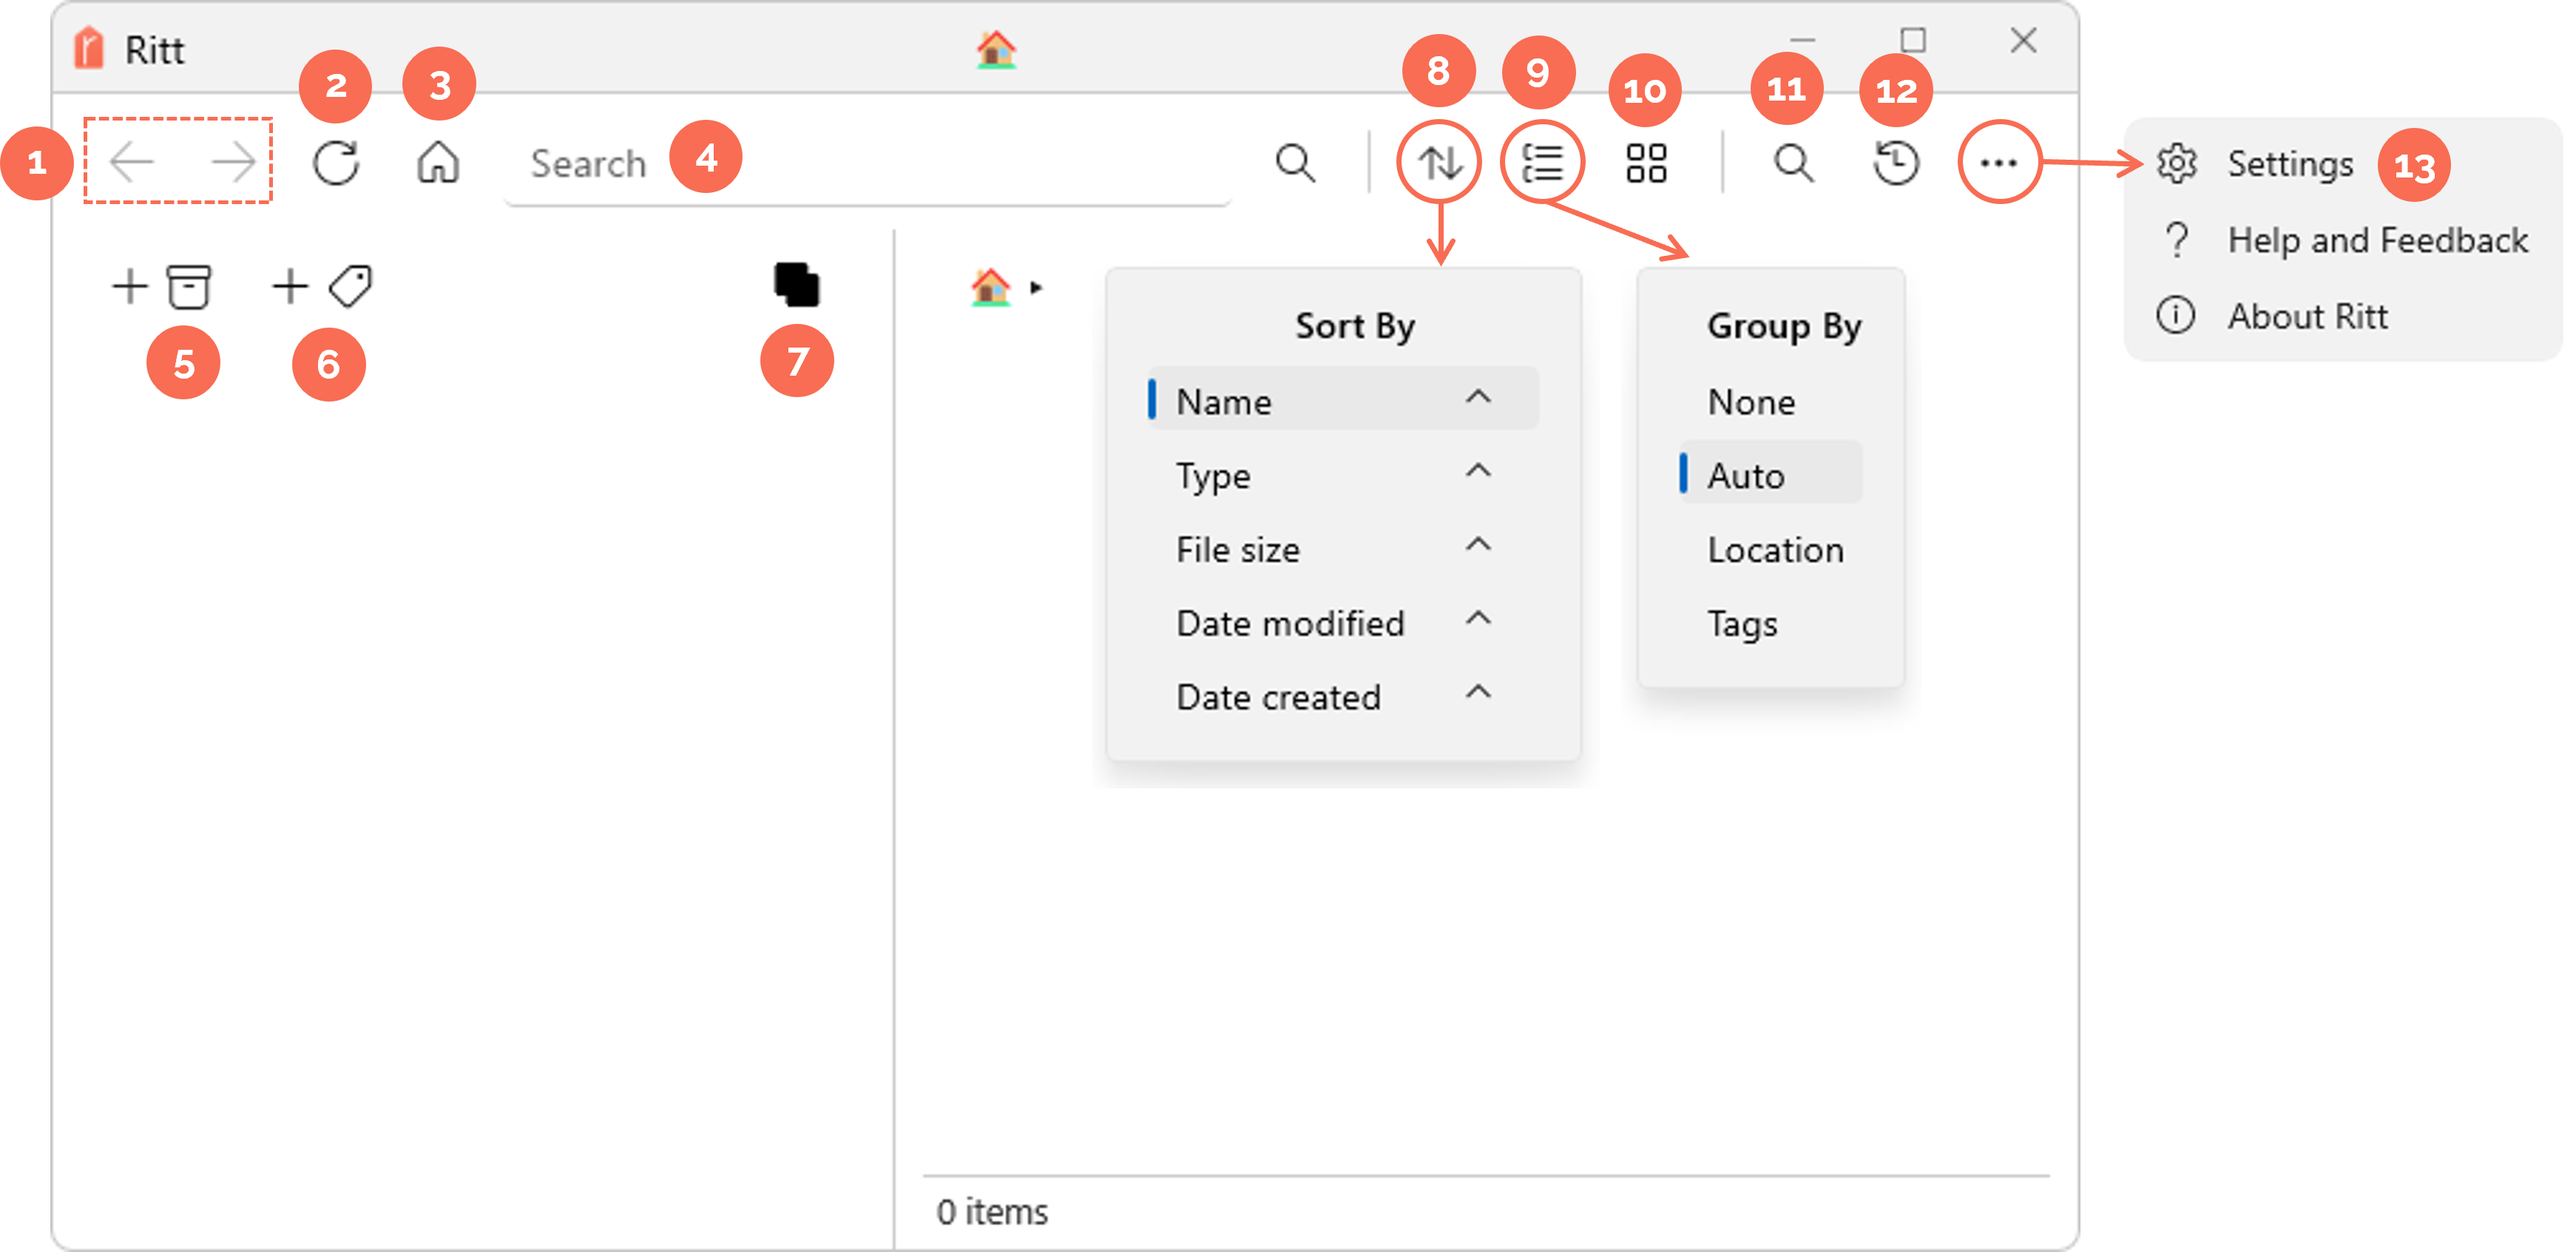
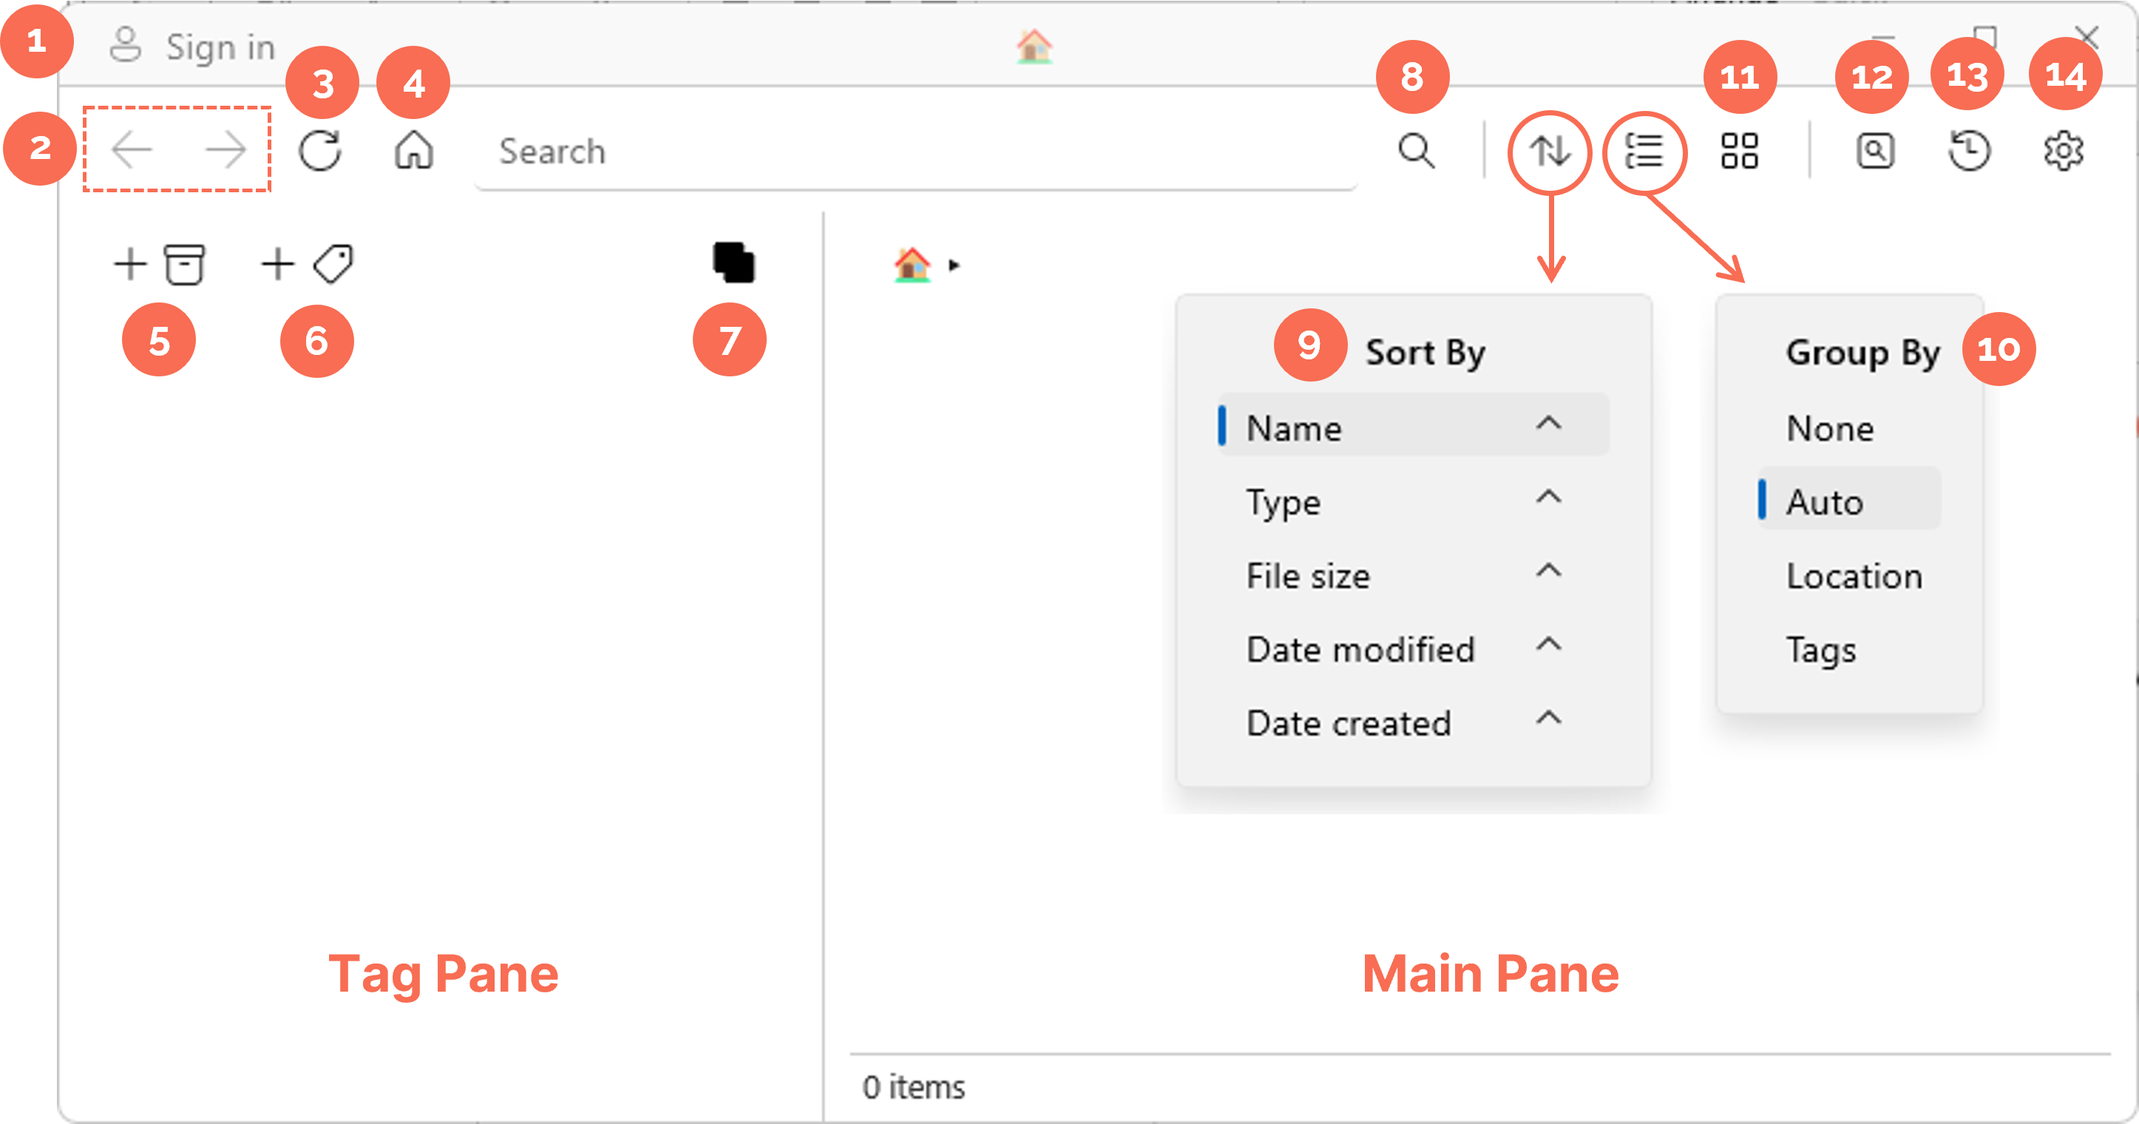
update UI overview

diff --git a/3-ui-overview.md b/3-ui-overview.md
@@ -12,19 +12,20 @@ v1.0
 ![UI Overview](../img/v1.0-PNG-UI-Overview.png)
 <br/><br/>
 
-|<img src="../img/Buttons-Master-1.png" alt="1" width="30" />| Click on the arrows to go backward or forward.|
-|<img src="../img/Buttons-Master-2.png" alt="2" width="30" />| Click to **refresh** (or press the F5 key). |
-|<img src="../img/Buttons-Master-3.png" alt="3" width="30" />| Click on the **Home** button to view all Source folders and task collections. |
-|<img src="../img/Buttons-Master-4.png" alt="4" width="30" />| Use the **Search** bar to search for folders, files, tags, or tasks (see [Search](/search) section). |
+|<img src="../img/Buttons-Master-1.png" alt="1" width="30" />| Sign in to Ritt server (available from v1.1). |
+|<img src="../img/Buttons-Master-2.png" alt="2" width="30" />| Click on the arrows to go backward or forward. |
+|<img src="../img/Buttons-Master-3.png" alt="3" width="30" />| Click to **refresh** (shortcut: F5 key). |
+|<img src="../img/Buttons-Master-4.png" alt="4" width="30" />| Click on the **Home** button to view all Source folders and task collections. |
 |<img src="../img/Buttons-Master-5.png" alt="5" width="30" />| Click to **Add Source** (see [Sources](/sources) section). |
 |<img src="../img/Buttons-Master-6.png" alt="6" width="30" />| Click to **Add Tag** (see [Tags](/tags/) section). |
 |<img src="../img/Buttons-Master-7.png" alt="7" width="30" />| Toggle between [intersection mode and union mode](/tags/intersection-vs-union-mode). |
-|<img src="../img/Buttons-Master-8.png" alt="8" width="30" />| **Sort** items in the main pane by different properties. |
-|<img src="../img/Buttons-Master-9.png" alt="9" width="30" />| **Group** items automatically in the main pane, by location, by tags, or ungroup them. |
-|<img src="../img/Buttons-Master-10.png" alt="10" width="30" />| Toggle between **grid** or **list** view. |
-|<img src="../img/Buttons-Master-11.png" alt="11" width="30" />| Show or hide **Preview** window. |
-|<img src="../img/Buttons-Master-12.png" alt="12" width="30" />| Show history of recent changes. |
-|<img src="../img/Buttons-Master-13.png" alt="13" width="30" />| Set your preferences via **Settings**. |
+|<img src="../img/Buttons-Master-8.png" alt="8" width="30" />| Use the **Search** bar to search for folders, files, tags, or tasks (see [Search](/search) section). |
+|<img src="../img/Buttons-Master-9.png" alt="9" width="30" />| **Sort** items in the main pane by different properties. |
+|<img src="../img/Buttons-Master-10.png" alt="10" width="30" />| **Group** items automatically in the main pane, by location, by tags, or ungroup them. |
+|<img src="../img/Buttons-Master-11.png" alt="11" width="30" />| Toggle between **grid** or **list** view. |
+|<img src="../img/Buttons-Master-12.png" alt="12" width="30" />| Show or hide **Preview** window (shortcut: Space key). |
+|<img src="../img/Buttons-Master-13.png" alt="13" width="30" />| Show history of recent changes. |
+|<img src="../img/Buttons-Master-14.png" alt="14" width="30" />| Set your preferences via **Settings**. |
 
 
 
